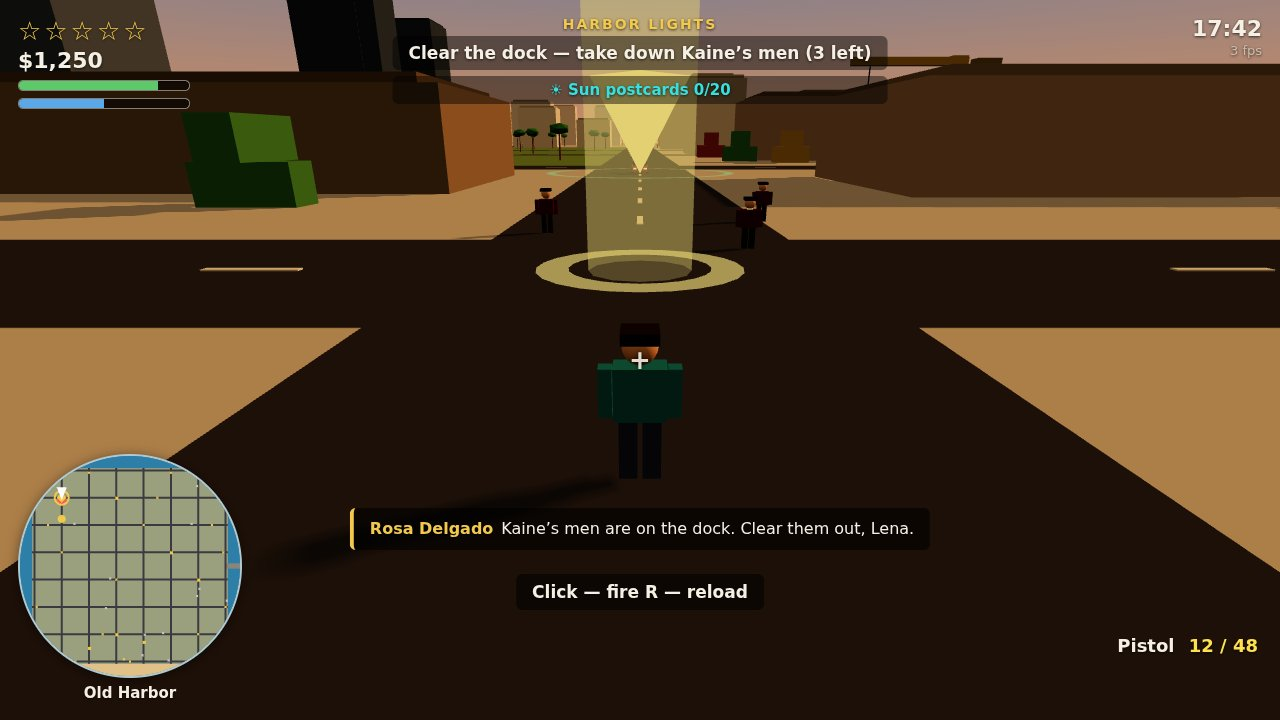
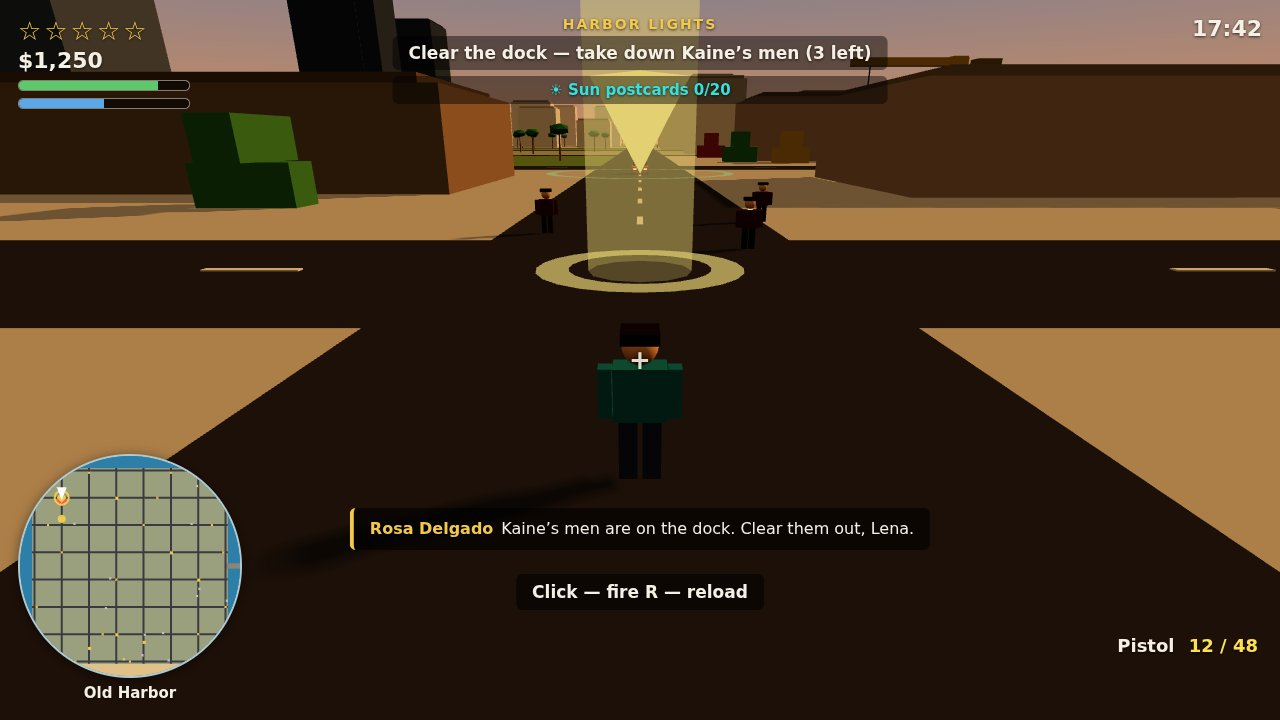
Round 3 optimize: hide FPS counter, +2 missions, car radio, re-staged screenshots

Changed region(s): [[0.4062, 0.1833, 0.4688, 0.2444], [0.5312, 0.2139, 0.625, 0.2444], [0.9375, 0.0611, 1.0, 0.0917]]

diff --git a/game/src/audio.js b/game/src/audio.js
@@ -1,9 +1,17 @@
 // Audio: every sound in Solmar Bay is procedural WebAudio — no audio files.
 // An engine hum that follows the car's speed, a two-tone siren while the
 // wanted level is up, noise-burst gunshots, a UI click, a mission-complete
-// chime, and a light bass-and-pad music loop. The context is created lazily
+// chime, a light bass-and-pad music loop, and a 3-station car radio (R while
+// driving) that swaps the music loop. The context is created lazily
 // on the first user gesture (browsers block audio before one), and every
 // method is a no-op until then, so headless screenshots stay silent and safe.
+/** The car radio's three stations: name, bass line, wave, bar length, volume. */
+export const RADIO_STATIONS = [
+  { name: 'Bay FM 87.9', bass: [55, 43.65, 65.41, 49], wave: 'triangle', interval: 2000, gain: 0.06 },
+  { name: 'Neon 101.5', bass: [110, 87.31, 98, 130.81], wave: 'sawtooth', interval: 1000, gain: 0.03 },
+  { name: 'Solmar Classics 94.3', bass: [65.41, 55, 73.42, 49], wave: 'sine', interval: 2600, gain: 0.07 },
+];
+
 export class AudioManager {
   constructor() {
     this.context = null;
@@ -14,6 +22,7 @@ export class AudioManager {
     this.sirenGain = null;
     this.musicTimer = null;
     this.musicStep = 0;
+    this.stationIndex = 0;
     this.enabled = true;
     this.lastEngineSpeed = 0;
   }
@@ -159,29 +168,44 @@ export class AudioManager {
   }
 
   /**
-   * The music loop: a slow bass line (A minor: A1, F1, C2, G1) with a soft
-   * pad note on top, one bar every two seconds, scheduled by a timer.
-   * Quiet by design — it sits under the engine and the siren.
+   * The music loop: the current radio station's bass line with a soft pad
+   * note on top, one bar per interval, scheduled by a timer. Quiet by
+   * design — it sits under the engine and the siren.
    */
   startMusic() {
-    if (!this.context || this.musicTimer) return;
-    const bass = [55, 43.65, 65.41, 49];
+    if (!this.context) return;
+    this.stopMusic();
+    const station = RADIO_STATIONS[this.stationIndex];
+    this.musicStep = 0;
+    const barSeconds = station.interval / 1000;
     this.musicTimer = setInterval(() => {
       if (!this.ready) return;
-      const root = bass[this.musicStep % bass.length];
+      const root = station.bass[this.musicStep % station.bass.length];
       this.musicStep += 1;
       const osc = this.context.createOscillator();
-      osc.type = 'triangle';
+      osc.type = station.wave;
       osc.frequency.value = root;
       const gain = this.context.createGain();
       gain.gain.setValueAtTime(0.0001, this.context.currentTime);
-      gain.gain.exponentialRampToValueAtTime(0.06, this.context.currentTime + 0.1);
-      gain.gain.exponentialRampToValueAtTime(0.001, this.context.currentTime + 1.9);
+      gain.gain.exponentialRampToValueAtTime(station.gain, this.context.currentTime + 0.1);
+      gain.gain.exponentialRampToValueAtTime(0.001, this.context.currentTime + barSeconds * 0.95);
       osc.connect(gain);
       gain.connect(this.master);
       osc.start();
-      osc.stop(this.context.currentTime + 2);
-    }, 2000);
+      osc.stop(this.context.currentTime + barSeconds);
+    }, station.interval);
+  }
+
+  /** The station now playing. */
+  get stationName() {
+    return RADIO_STATIONS[this.stationIndex].name;
+  }
+
+  /** Cycle to the next radio station; returns its name for the HUD. */
+  cycleStation() {
+    this.stationIndex = (this.stationIndex + 1) % RADIO_STATIONS.length;
+    if (this.context) this.startMusic();
+    return this.stationName;
   }
 
   stopMusic() {

diff --git a/game/src/main.js b/game/src/main.js
@@ -1,7 +1,7 @@
 // Boot and the one loop: input is read every frame, the world advances in fixed
 // 1/60 s steps (several in a slow frame, none in a fast one), and the renderer
 // paints what is there. The game moves between three screens: title, play and
-// paused. Step 4: six story missions with dialogue, pistol combat against
+// paused. Step 4: eight story missions with dialogue, pistol combat against
 // Kaine's men, a full HUD with minimap, a versioned save, and procedural audio
 // — wired into the same loop.
 //
@@ -86,6 +86,8 @@ const state = {
 let recklessTimer = 0;
 let smokeTimer = 0;
 let missionLabel = '';
+let radioLabel = '';
+let radioUntil = 0;
 let gunfireTimer = 0;
 let lowHealthWarned = false;
 let audioStarted = false;
@@ -495,7 +497,16 @@ function stepWorld(dt, input, actions) {
       }
     }
   }
-  if (actions & ACTION_RELOAD) combat.startReload();
+  // R reloads on foot — but in a car it cycles the radio instead.
+  if (actions & ACTION_RELOAD) {
+    if (state.inCar) {
+      radioLabel = `♪ ${audio.cycleStation()}`;
+      radioUntil = performance.now() + 4000;
+      audio.uiClick();
+    } else {
+      combat.startReload();
+    }
+  }
 
   const mouse = input.takeMouseDelta();
   if (state.inCar) {
@@ -603,7 +614,7 @@ function updateHud() {
     weapon: combat.weapon,
     ammo: combat.hasPistol ? `${combat.ammoInMag} / ${combat.ammoReserve}` : '',
     dialogue: line && speaker ? { speakerName: speaker.name, speakerColor: speaker.color, text: line.text } : null,
-    fps: renderer.getFps(),
+    radio: radioUntil > performance.now() ? radioLabel : '',
   }, { player, car, traffic, fleet, police, missions, combat, activities, collectibles, garage });
 }
 
@@ -611,7 +622,7 @@ function hudPrompt() {
   if (state.inCar) {
     if (garage.isInGarage(car.x, car.z)) return 'Get out here to keep this car & save';
     if (car.specKey === 'taxi' && !activities.active) return 'Taxi — pick up the passenger on Palm Row';
-    return '';
+    return 'R — radio';
   }
   if (nearCar()) return `E — Get in the ${car.spec.name}`;
   const stored = garage.nearestStored(player.x, player.z);
@@ -793,7 +804,7 @@ function runShot(name) {
   showScreen(SCREEN_PLAY);
   let painted = 0;
   function paint() {
-    // Keep painting after the shot is ready, so the fps counter stays live.
+    // Keep painting after the shot is ready, so the scene stays live.
     requestAnimationFrame(paint);
     renderer.draw({ player, car, inCar: state.inCar, camera: cameraView, shake: effects.shakeOffset() }, STEP);
     updateHud();

diff --git a/game/src/hud.js b/game/src/hud.js
@@ -29,10 +29,10 @@ export class HudManager {
       activityLine: doc.getElementById('activity-line'),
       missionName: doc.getElementById('mission-name'),
       missionTimer: doc.getElementById('mission-timer'),
+      radio: doc.getElementById('radio'),
       speed: doc.getElementById('speed-value'),
       speedUnit: doc.getElementById('speed-unit'),
       clock: doc.getElementById('clock'),
-      fps: doc.getElementById('fps'),
       prompt: doc.getElementById('prompt'),
       district: doc.getElementById('district-label'),
       minimap: doc.getElementById('minimap'),
@@ -49,7 +49,7 @@ export class HudManager {
       // speed starts at -2 (not -1) so the first update also hides the
       // "km/h" unit when Lena is on foot; -1 is the on-foot speed itself.
       missionName: '', timer: '', speed: -2, prompt: null, district: '',
-      weapon: '', ammo: '', dialogue: null,
+      weapon: '', ammo: '', dialogue: null, radio: '',
     };
   }
 
@@ -214,7 +214,7 @@ export class HudManager {
    * Refresh every HUD element from the current game state. `state` carries
    * money, health, armor, wanted, objective, missionName, timer (seconds, 0
    * hides it), speedKmh, inCar, prompt, weapon, ammo text, dialogue (a
-   * { speakerName, speakerColor, text } or null), and fps. `world` is what
+   * { speakerName, speakerColor, text } or null). `world` is what
    * drawMinimap needs.
    */
   update(state, world) {
@@ -257,6 +257,13 @@ export class HudManager {
       el.missionTimer.textContent = timerText;
       el.missionTimer.style.visibility = timerText ? 'visible' : 'hidden';
     }
+    // Radio: the station name, shown briefly after R cycles it while driving.
+    const radioText = state.radio || '';
+    if (radioText !== this.last.radio) {
+      this.last.radio = radioText;
+      el.radio.textContent = radioText;
+      el.radio.style.visibility = radioText ? 'visible' : 'hidden';
+    }
     const speedKmh = state.inCar ? state.speedKmh : -1;
     if (speedKmh !== this.last.speed) {
       this.last.speed = speedKmh;
@@ -298,7 +305,6 @@ export class HudManager {
     // Crosshair: only on foot with the pistol out.
     el.crosshair.style.visibility = (!state.inCar && state.weapon === 'pistol') ? 'visible' : 'hidden';
     el.clock.textContent = CLOCK;
-    el.fps.textContent = `${state.fps} fps`;
     this.drawMinimap(world);
   }
 }

diff --git a/game/style.css b/game/style.css
@@ -14,7 +14,6 @@ html, body { margin: 0; height: 100%; overflow: hidden; background: #1a1410; fon
 #objective { font-size: 17px; font-weight: 600; background: rgba(0, 0, 0, 0.45); padding: 7px 16px; border-radius: 6px; }
 #hud-top-right { position: absolute; top: 16px; right: 18px; text-align: right; }
 #clock { font-size: 22px; font-weight: 700; }
-#fps { font-size: 13px; color: #c8bca8; margin-top: 2px; }
 #hud-bottom-left { position: absolute; left: 18px; bottom: 18px; }
 #minimap { display: block; border: 2px solid rgba(245, 239, 228, 0.65); border-radius: 50%; background: #2e7fa8; box-shadow: 0 2px 12px rgba(0, 0, 0, 0.5); }
 #district-label { margin-top: 6px; font-size: 15px; font-weight: 600; text-align: center; }
@@ -26,6 +25,7 @@ html, body { margin: 0; height: 100%; overflow: hidden; background: #1a1410; fon
 #mission-name { font-size: 14px; font-weight: 700; letter-spacing: 2px; text-transform: uppercase; color: #f2c94c; text-align: center; margin-bottom: 4px; }
 #activity-line { font-size: 15px; font-weight: 600; color: #35e0e0; background: rgba(0, 0, 0, 0.45); padding: 5px 14px; border-radius: 6px; text-align: center; margin-top: 6px; }
 #mission-timer { display: inline-block; margin-top: 6px; font-size: 20px; font-weight: 800; color: #ffe14f; background: rgba(0, 0, 0, 0.45); padding: 4px 12px; border-radius: 6px; }
+#radio { margin-top: 6px; font-size: 15px; font-weight: 700; color: #35e0e0; background: rgba(0, 0, 0, 0.45); padding: 5px 14px; border-radius: 6px; text-align: center; }
 #weapon-line { font-size: 18px; font-weight: 700; margin-bottom: 4px; }
 #ammo { color: #ffe14f; margin-left: 8px; }
 #crosshair { position: absolute; left: 50%; top: 50%; transform: translate(-50%, -50%); font-size: 26px; font-weight: 700; color: rgba(245, 239, 228, 0.9); text-shadow: 0 0 4px rgba(0, 0, 0, 0.9); }

diff --git a/game/src/story.js b/game/src/story.js
@@ -18,7 +18,7 @@ export function line(speaker, text) {
   return { speaker, text };
 }
 
-/** Intro and outro lines for each of the six missions, in order. */
+/** Intro and outro lines for each of the eight missions, in order. */
 export const MISSION_DIALOGUE = [
   {
     intro: [
@@ -80,6 +80,29 @@ export const MISSION_DIALOGUE = [
     outro: [
       line('lena', 'Nico — you\u2019re free. Kaine\u2019s empire ends tonight.'),
       line('rosa', 'High tide, Lena. You did it. Solmar Bay is yours again.'),
+    ],
+  },
+  {
+    intro: [
+      line('rosa', 'Kaine kept a ledger — every bribe, every name. It\u2019s at the Palm Row hotels.'),
+      line('lena', 'A ledger beats a gunfight. I\u2019ll grab it.'),
+      line('okafor', 'Bring that ledger to Old Harbor, Lena. It ends Kaine\u2019s friends in high places.'),
+    ],
+    outro: [
+      line('okafor', 'This ledger closes three cases. You did good, Miss Marín.'),
+      line('lena', 'One loose end left — Nico. Then we\u2019re done.'),
+    ],
+  },
+  {
+    intro: [
+      line('nico', 'Lena? You\u2019re really here. I thought Kaine would—'),
+      line('lena', 'He won\u2019t. Not anymore. Get in, little brother — one last drive.'),
+      line('rosa', 'Sunrise over the bay, you two. Bring him home safe.'),
+    ],
+    outro: [
+      line('nico', 'Home. I forgot what that felt like.'),
+      line('rosa', 'High tide, low tide — family is family. Solmar Bay is yours, both of you.'),
+      line('lena', 'Solmar Sunrise. We made it.'),
     ],
   },
 ];

diff --git a/game/src/missions.js b/game/src/missions.js
@@ -1,4 +1,4 @@
-// Missions: the six story missions of "High Tide", in order. Each mission is a
+// Missions: the eight story missions of "High Tide", in order. Each mission is a
 // short list of steps — reach a waypoint, deliver parcels, steal a car without
 // raising heat, clear a shootout, tail a courier, escape at four stars — with
 // a timer or a fail condition where the story needs one. The manager owns the
@@ -60,6 +60,25 @@ export const MISSION_DEFS = [
     steps: [
       { kind: 'reach', x: 370, z: 0, radius: 10, label: 'Reach the boat yard on Isla Verde' },
       { kind: 'escape', x: -180, z: -124, radius: 8, label: 'Escape across the causeway at 4 stars' },
+    ],
+  },
+  {
+    name: 'Ghost Ledger',
+    reward: 1200,
+    timeLimit: 300,
+    steps: [
+      { kind: 'reach', x: 180, z: 252, radius: 7, label: 'Pick up Kaine\u2019s ledger — Palm Row hotels' },
+      { kind: 'reach', x: -180, z: -180, radius: 10, label: 'Deliver the ledger to Chief Okafor at Old Harbor' },
+      { kind: 'escape', x: -180, z: -124, radius: 8, label: 'Lose Kaine\u2019s crew — reach Rosa\u2019s garage' },
+    ],
+  },
+  {
+    name: 'Solmar Sunrise',
+    reward: 1800,
+    steps: [
+      { kind: 'reach', x: 36, z: 36, radius: 8, label: 'Reach Neon Mile — meet Nico at dawn' },
+      { kind: 'reach', x: 370, z: 0, radius: 10, label: 'Drive Nico to the boat yard on Isla Verde' },
+      { kind: 'reach', x: -180, z: -124, radius: 8, label: 'Bring Nico home to Rosa\u2019s garage' },
     ],
   },
 ];

diff --git a/game/index.html b/game/index.html
@@ -25,10 +25,10 @@
     <div id="objective">Drive Rosa&rsquo;s Alba to Old Harbor</div>
     <div id="activity-line" style="visibility:hidden"></div>
     <div id="mission-timer" style="visibility:hidden"></div>
+    <div id="radio" style="visibility:hidden"></div>
   </div>
   <div id="hud-top-right">
     <div id="clock">17:42</div>
-    <div id="fps">-- fps</div>
   </div>
   <div id="hud-bottom-left">
     <canvas id="minimap" width="220" height="220"></canvas>
@@ -53,7 +53,7 @@
     <div id="how-panel">
       <p><b>W A S D</b> — walk / drive &nbsp; <b>Shift</b> — sprint</p>
       <p><b>Space</b> — jump &nbsp; <b>E</b> — get in / out of a car</p>
-      <p><b>Click / F</b> — fire &nbsp; <b>R</b> — reload &nbsp; <b>P</b> — pause</p>
+      <p><b>Click / F</b> — fire &nbsp; <b>R</b> — reload (radio in a car) &nbsp; <b>P</b> — pause</p>
       <p><b>Mouse drag</b> — look around &nbsp; <b>M</b> — mission briefing</p>
       <p>Drive the Harbor Taxi for fares, run Rosa&rsquo;s parcels, race on Palm Row.</p>
       <p>Find 20 sun postcards ☀ — park in the green garage ring to keep a car &amp; save.</p>

diff --git a/game/src/config.js b/game/src/config.js
@@ -235,7 +235,7 @@ export const PALETTE = {
   gold: '#f2c94c',
 };
 
-/** The story's six missions, in order. Step 2 shows only the first objective line. */
+/** The story's eight missions, in order. Step 2 shows only the first objective line. */
 export const MISSIONS = [
   { name: 'Homecoming', objective: 'Drive Rosa\u2019s Alba to Old Harbor' },
   { name: 'Courier Run', objective: 'Deliver three parcels across Palm Row' },
@@ -243,6 +243,8 @@ export const MISSIONS = [
   { name: 'Harbor Lights', objective: 'Clear the dock' },
   { name: 'Neon Mile', objective: 'Tail Kaine\u2019s courier through downtown' },
   { name: 'High Tide', objective: 'Escape across the causeway at 4 stars' },
+  { name: 'Ghost Ledger', objective: 'Deliver Kaine\u2019s ledger to Chief Okafor' },
+  { name: 'Solmar Sunrise', objective: 'Bring Nico home to Rosa\u2019s garage' },
 ];
 
 /** Side activities (Step 5): taxi fares, courier runs, street races. */

diff --git a/game/src/shots.js b/game/src/shots.js
@@ -105,13 +105,21 @@ export function stageShot(name, game) {
     return;
   }
   // drive: Lena in the Alba on the Palm Row boulevard, sea on the right.
+  // Wide elevated fixed camera west of the car, looking east down the
+  // boulevard: the Alba and traffic mid-frame, the beach and sea to the
+  // south, the city blocks and towers to the north — one open-world frame.
   game.placeCar(-40, 246, Math.PI / 2);
   game.placePlayer(-40, 242, Math.PI / 2);
   game.setInCar(true);
   game.placeTraffic([
     { axis: 'x', road: 252, along: 10, direction: 1 },
     { axis: 'x', road: 252, along: 60, direction: 1 },
+    { axis: 'x', road: 252, along: -45, direction: -1 },
   ]);
-  game.setCamera({ mode: 'follow', yaw: Math.PI / 2, pitch: 0.18, distance: 9.5 });
+  game.setCamera({
+    mode: 'fixed',
+    fixed: { x: -75, y: 14, z: 272 },
+    target: { x: 0, y: 2, z: 246 },
+  });
   game.setObjective(MISSIONS[0].objective);
 }
